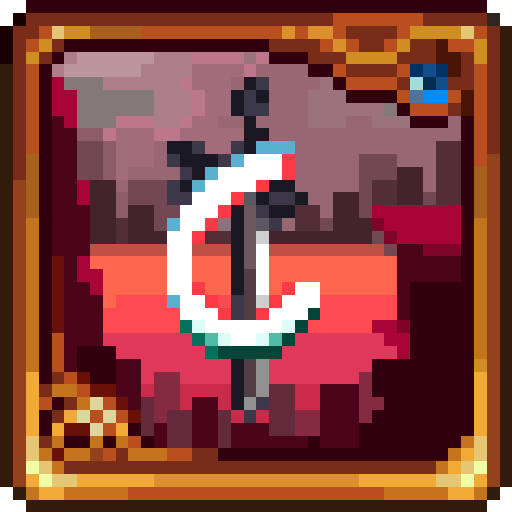
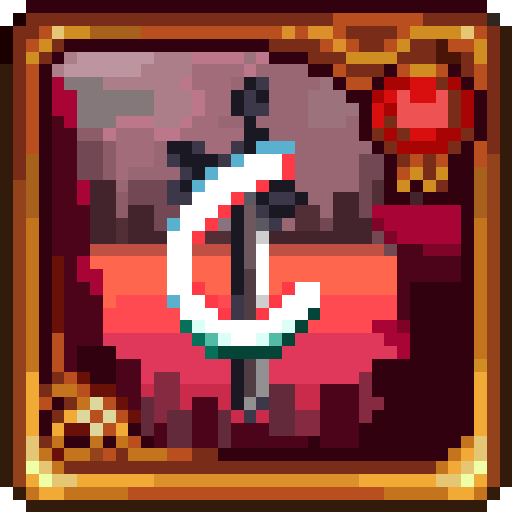
0.6.0.1.1更新提交

Changed region(s): [[0.6875, 0.125, 0.9688, 0.4062]]

diff --git a/Content/Tiles/DarkMatterCompressor.cs b/Content/Tiles/DarkMatterCompressor.cs
@@ -60,23 +60,24 @@ namespace CalamityOverhaul.Content.Tiles
         }
 
         public override bool RightClick(int i, int j) {
-            if (VaultUtils.SafeGetTopLeft(i, j, out var point)) {
-                if (TileProcessorLoader.ByPositionGetTP(point, out CompressorTP compressor)) {
-                    ref int playerContrType = ref Main.LocalPlayer.CWR().CompressorContrType;
-                    if (playerContrType == compressor.WhoAmI && playerContrType >= 0) {
-                        if (CompressorUI.Instance.compressorEntity == null) {
-                            CompressorUI.Instance.compressorEntity = compressor;
-                        }
-                        CompressorUI.Instance.Active = !CompressorUI.Instance.Active;
-                    }
-                    else {
-                        playerContrType = compressor.WhoAmI;
-                        CompressorUI.Instance.compressorEntity = compressor;
-                        CompressorUI.Instance.Active = true;
-                    }
-                }
-                SoundEngine.PlaySound(SoundID.Chat with { Pitch = 0.3f });
-            }
+            //没做完，先藏起来
+            //if (VaultUtils.SafeGetTopLeft(i, j, out var point)) {
+            //    if (TileProcessorLoader.ByPositionGetTP(point, out CompressorTP compressor)) {
+            //        ref int playerContrType = ref Main.LocalPlayer.CWR().CompressorContrType;
+            //        if (playerContrType == compressor.WhoAmI && playerContrType >= 0) {
+            //            if (CompressorUI.Instance.compressorEntity == null) {
+            //                CompressorUI.Instance.compressorEntity = compressor;
+            //            }
+            //            CompressorUI.Instance.Active = !CompressorUI.Instance.Active;
+            //        }
+            //        else {
+            //            playerContrType = compressor.WhoAmI;
+            //            CompressorUI.Instance.compressorEntity = compressor;
+            //            CompressorUI.Instance.Active = true;
+            //        }
+            //    }
+            //    SoundEngine.PlaySound(SoundID.Chat with { Pitch = 0.3f });
+            //}
 
             return true;
         }

diff --git a/Content/UIs/OverhaulTheBible/TabControl.cs b/Content/UIs/OverhaulTheBible/TabControl.cs
@@ -33,7 +33,7 @@ namespace CalamityOverhaul.Content.UIs.OverhaulTheBible
         public override void Draw(SpriteBatch spriteBatch) {
             VaultUtils.DrawBorderedRectangle(spriteBatch, CWRAsset.Placeholder_White.Value
                 , 4, DrawPosition, 64, 64, Color.White * OverhaulTheBibleUI.Instance._sengs
-                , (Tab ? Color.Red : Color.GhostWhite) * OverhaulTheBibleUI.Instance._sengs, 1);
+                , (Tab ? Color.BurlyWood : Color.GhostWhite) * OverhaulTheBibleUI.Instance._sengs, 1);
             VaultUtils.DrawBorderedRectangle(spriteBatch, CWRUtils.GetT2DValue(CWRConstant.UI + "JAR")
                 , 4, DrawPosition, 64, 64, Color.White * OverhaulTheBibleUI.Instance._sengs, Color.White * 0, 1);
 
@@ -60,7 +60,7 @@ namespace CalamityOverhaul.Content.UIs.OverhaulTheBible
                     , size, 0, Color.White * OverhaulTheBibleUI.Instance._sengs, Vector2.Zero);
             }
             else {
-                Texture2D value = CWRAsset.Placeholder_ERROR.Value;
+                Texture2D value = CWRUtils.GetT2DValue("CalamityMod/UI/DraedonSummoning/DecryptCancelIcon");
                 spriteBatch.Draw(value, DrawPosition + new Vector2(64, 64) / 2, null, Color.White * OverhaulTheBibleUI.Instance._sengs
                     , MathHelper.PiOver4 + MathHelper.PiOver2, value.Size() / 2, 1, SpriteEffects.None, 0);
             }

diff --git a/Content/UIs/OverhaulTheBible/ItemVidous.cs b/Content/UIs/OverhaulTheBible/ItemVidous.cs
@@ -30,9 +30,7 @@ namespace CalamityOverhaul.Content.UIs.OverhaulTheBible
                 , 4, DrawPosition, Width, Height, Color.White * OverhaulTheBibleUI.Instance._sengs, Color.White * 0, 1);
 
             Item item = new Item(BaseRItem.TargetID);
-            if (BaseRItem.IsVanilla) {
-                Main.instance.LoadItem(BaseRItem.TargetID);
-            }
+            Main.instance.LoadItem(BaseRItem.TargetID);
             float size = VaultUtils.GetDrawItemSize(item, Width);
             VaultUtils.SimpleDrawItem(spriteBatch, BaseRItem.TargetID, DrawPosition + new Vector2(Width, Height) / 2
                 , size, 0, Color.White * OverhaulTheBibleUI.Instance._sengs, Vector2.Zero);

diff --git a/Content/UIs/CompressorUIs/CompressorUI.cs b/Content/UIs/CompressorUIs/CompressorUI.cs
@@ -13,7 +13,7 @@ namespace CalamityOverhaul.Content.UIs.CompressorUIs
         public static CompressorUI Instance => UIHandleLoader.GetUIHandleOfType<CompressorUI>();
         private static bool _active;
         public override bool Active {
-            get => _active;
+            get => false;// _active;//没做完，先藏起来
             set {
                 _active = value;
                 if (compressorEntity.compressorUIInstance != null) {

diff --git a/Content/RemakeItems/RMagicConch.cs b/Content/RemakeItems/RMagicConch.cs
@@ -10,6 +10,7 @@ namespace CalamityOverhaul.Content.RemakeItems
     internal class RMagicConch : ItemOverride
     {
         public override int TargetID => ItemID.MagicConch;
+        public override bool DrawingInfo => false;
         public override bool? On_CanUseItem(Item item, Player player) {
             if (CalamityWorld.death || BossRushEvent.BossRushActive) {
                 bool myIsBossTarget = false;
